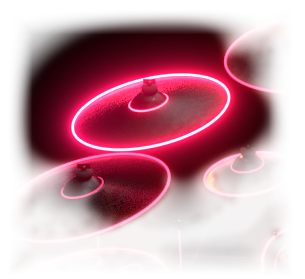
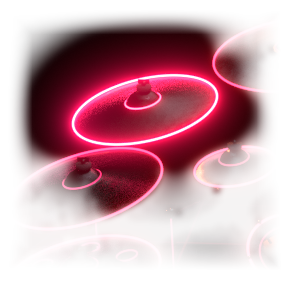
0.42.0: the KIT VIEW across the page, the kit at the reference's 1896 x 744
The owner: the kit view was cramped beside the drum list; use the whole
space, at the reference picture's size and shape. The kit is rendered
again at 1896 x 744 (same camera place, lens 46 mm: the kit top to
bottom, the floor wide on both sides); kit.jpg, the click map, the 19
glows and kitlayout.txt remade. The page's height limits the drums
themselves (about 5% taller); the picture is 1448 px wide instead of 848.

KitView::pictureArea now sits on whole pixels with sides multiples of 4:
the wide picture rarely fits the view exactly, and the cached copy is
drawn snapped to whole screen pixels, so half a pixel off (or half a
screen pixel too big at 150%) it drifted from its click map (the
display-scale test caught it).

Claude-Session: https://claude.ai/code/session_01DkHHwE8pZtGpq78Kkzjpto

diff --git a/source/ui/KitView.cpp b/source/ui/KitView.cpp
@@ -138,7 +138,7 @@ KitView::KitView (ParagonX1AudioProcessor& p) : processor (p)
 }
 
 // 0.15.1: the pictures shrunk to the size they're shown, in the screen's own pixels (Windows' display scaling too),
-// once, and only copied after that: shrinking the 1280-pixel kit and each glow smoothly on every redraw cost
+// once, and only copied after that: shrinking the kit (1896 pixels wide since 0.42.0) and each glow smoothly on every redraw cost
 // milliseconds a frame, 30 frames a second per glowing piece.
 void KitView::prepare (float scale)
 {
@@ -177,8 +177,13 @@ juce::Rectangle<float> KitView::pictureArea() const
     const auto& kit = pictures().kit;
     if (! kit.isValid())
         return {};
-    return juce::RectanglePlacement (juce::RectanglePlacement::centred)
-        .appliedTo (kit.getBounds().toFloat(), getLocalBounds().toFloat());
+    // On whole pixels, its sides multiples of 4 (0.42.0: the wide picture rarely fits a view exactly; half a pixel off,
+    // or half a screen pixel too big at 125-200% display scaling, it would be drawn snapped or stretched, off its click
+    // map).
+    const auto placed = juce::RectanglePlacement (juce::RectanglePlacement::centred)
+                            .appliedTo (kit.getBounds().toFloat(), getLocalBounds().toFloat());
+    const auto w = juce::jmax (4, (int) (placed.getWidth() / 4.0f) * 4), h = juce::jmax (4, (int) (placed.getHeight() / 4.0f) * 4);
+    return juce::Rectangle<int> (w, h).withCentre (placed.getCentre().toInt()).toFloat();
 }
 
 int KitView::slotAt (juce::Point<float> at) const

diff --git a/CLAUDE.md b/CLAUDE.md
@@ -108,7 +108,7 @@ Seen in 0.1.0, for later (corrected in 0.2.0): a drum voice ends when its level 
 
 **0.41.0: NO ON-SCREEN KEYBOARD** (the owner: "completely remove the keyboard from all PR7-D screens"; chose "Song track stays there"). `KitKeyboard` and the KEYS | SONG switch are gone from MainView; the SONG track is always the strip under the pages (`stripArea`, was `keyboardArea`), hidden only under THE DRUM MACHINE; `showSong` just shows it (callers kept); `isShowingSong` = its visibility. The processor's `keyboardState` stays (it still merges into the kit's MIDI; tests play notes through it). Tests: `UiTests` (no `MidiKeyboardComponent` in the window; the song strip on every page), `MachineTests`.
 
-**0.42.0: THE KIT VIEW across the page** (the owner: "use the entire space for the Tron kit and lose the list ... the same size and aspect ratio as the original ... picture"). `DrumPage::showView`: on the KIT VIEW the drum rows and `kitControls` are hidden (KITS / SEQUENCES / LINK stay on the title line), `paint` draws one panel over the page, `kitView` covers the whole page under the title line. The kit rendered again at the reference picture's 1896 x 744 (`kit3d.py`: `KIT_LENS` 46, `KIT_TARGET_DZ` -0.11; same camera place); `kit.jpg`, `kitzones.png`, the glows and `kitlayout.txt` remade (README's steps at 1896 744). Clap, shaker, tambourine: no piece, chosen on the DRUM / SEQUENCER views or the machine.
+**0.42.0: THE KIT VIEW across the page** (the owner: "use the entire space for the Tron kit and lose the list ... the same size and aspect ratio as the original ... picture"). `DrumPage::showView`: on the KIT VIEW the drum rows and `kitControls` are hidden (KITS / SEQUENCES / LINK stay on the title line), `paint` draws one panel over the page, `kitView` covers the whole page under the title line. The kit rendered again at the reference picture's 1896 x 744 (`kit3d.py`: `KIT_LENS` 46, `KIT_TARGET_DZ` -0.11; same camera place); `kit.jpg`, `kitzones.png`, the glows and `kitlayout.txt` remade (README's steps at 1896 744). Clap, shaker, tambourine: no piece, chosen on the DRUM / SEQUENCER views or the machine. `KitView::pictureArea` on whole pixels, sides multiples of 4 (whole screen pixels at 125-200%: the cached copy is drawn snapped, and the wide picture rarely fits exactly). The kit only ~5% taller (the page's height limits it).
 
 ## Rules (from the owner and the family's CLAUDE.md files)
 

diff --git a/CHANGELOG.md b/CHANGELOG.md
@@ -6,9 +6,11 @@ Each version's notes appear on its GitHub Release page.
 
 **The KIT VIEW has the whole page, as you asked.** The list of drums down the left is gone from the KIT VIEW, and the Tron kit spreads across the full width of the page.
 
-- **The same shape as your reference picture:** the kit is rendered again at 1896 x 744, the picture you sent's own size, instead of the old squarer 1280 x 924. It's the same kit from the same seat, with a wider lens: the whole kit fits top to bottom, with the glowing floor running out on both sides. The kit itself shows about 15% bigger than before, and the picture is about 70% sharper.
+- **The same shape as your reference picture:** the kit is rendered again at 1896 x 744, the picture you sent's own size, instead of the old squarer 1280 x 924. It's the same kit from the same seat, with a wider lens: the whole kit fits top to bottom, with the glowing floor running out on both sides. The page's height is what limits the kit's size, so the drums themselves are only about 5% taller than before; what changes is the room around them: the picture is now 1448 pixels wide on a 1600-pixel window instead of 848.
 - **Still there:** KITS, SEQUENCES and LINK on the KIT VIEW's title line, the articulations panel (now on the open floor at the bottom left), the OUTPUT strip and the SONG track.
 - **The drum list** is still on the DRUM and SEQUENCER views. The kit's own knobs (LEVEL and the rest) are there too. Clap, shaker and tambourine have no piece in the picture: choose them there or on the DRUM MACHINE.
+
+- **Fix that came with it:** the picture is now placed on whole screen pixels at 100-200% display scaling, so where you click always matches the drum drawn there.
 
 **Tests:** the kit view's click map, glows and colours checked on the new pictures; every test passes. pluginval passes at strictness 10.
 
